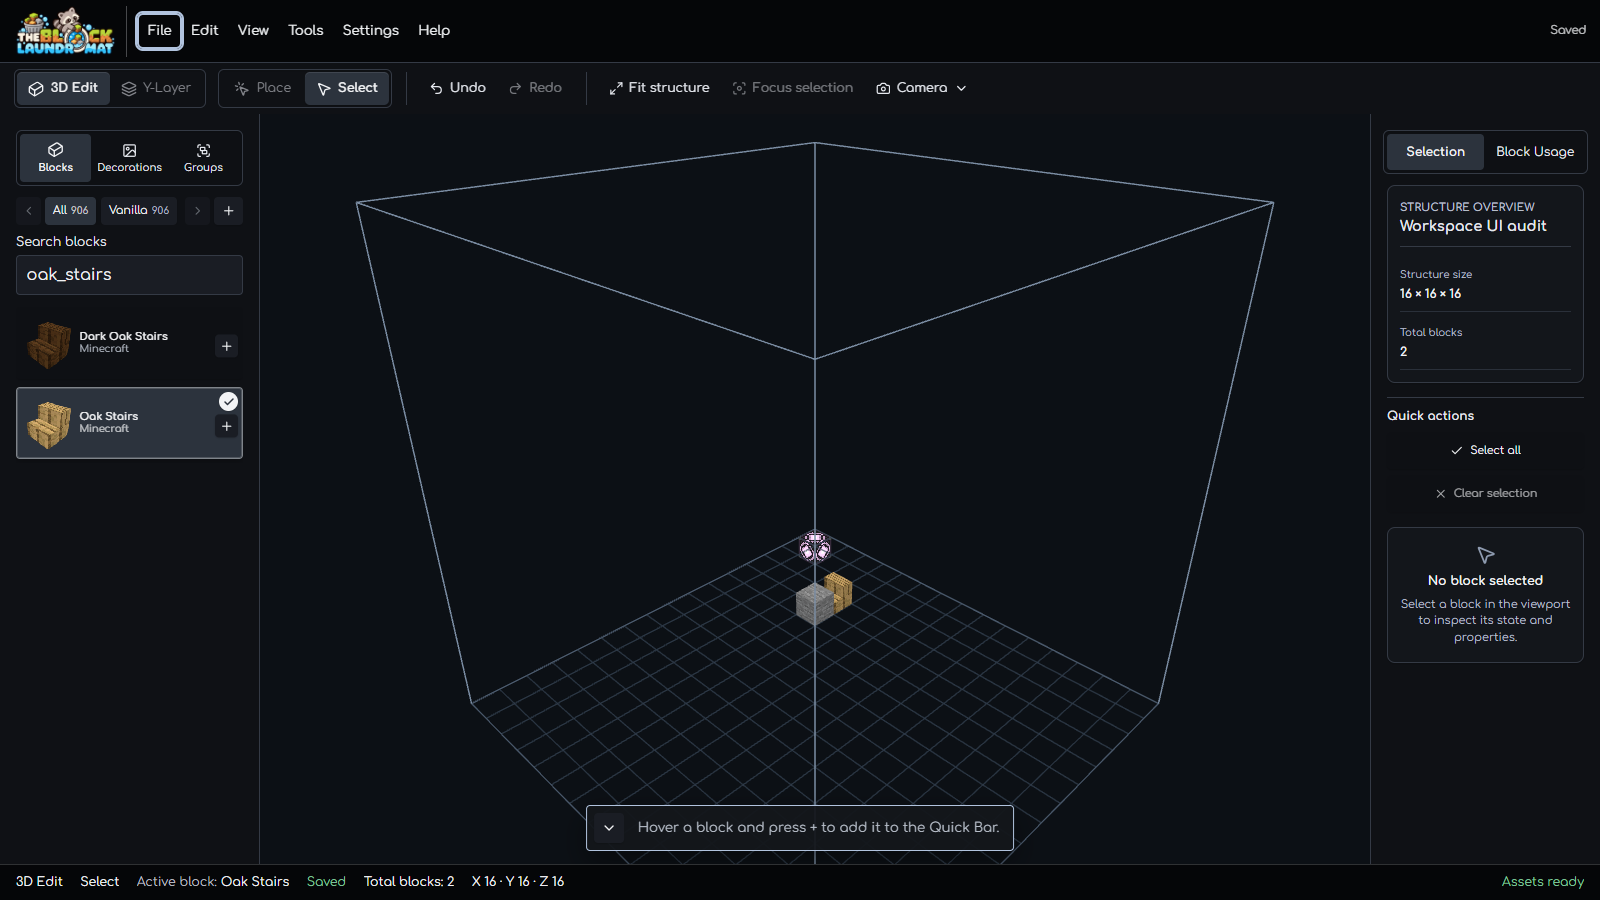
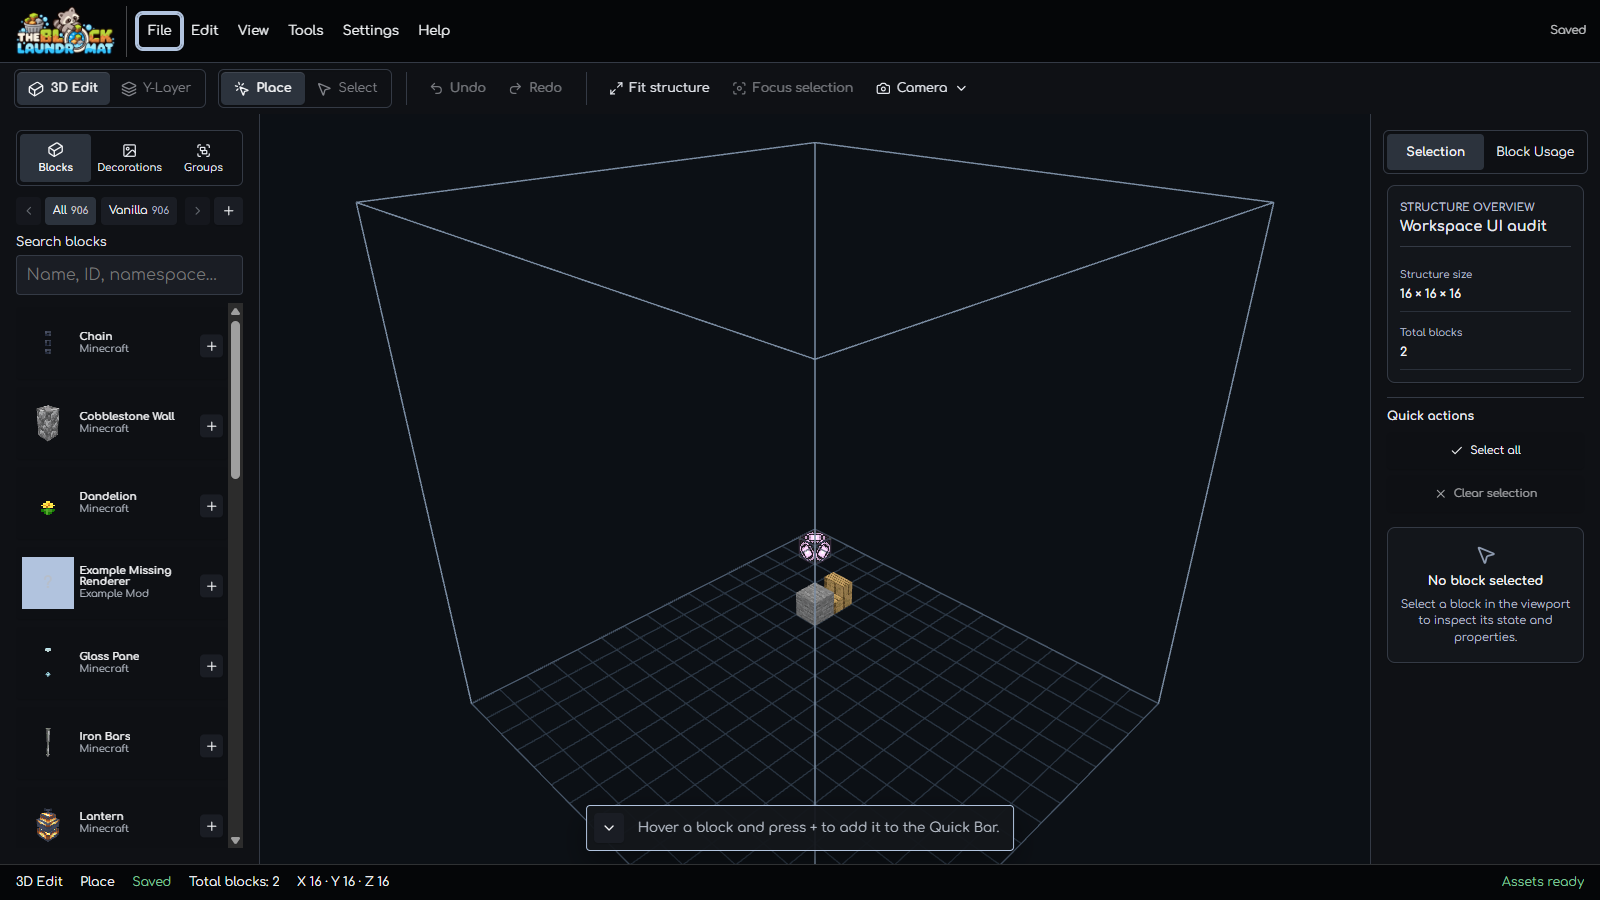
Improve Structure JSON dialog keyboard navigation

diff --git a/Frontend/src/app/features/editor/structure-json/import/structure-json-import-dialog.component.spec.ts b/Frontend/src/app/features/editor/structure-json/import/structure-json-import-dialog.component.spec.ts
@@ -72,6 +72,69 @@ function importWorkspace(
 }
 
 describe('StructureJsonImportDialogComponent', () => {
+  it('supports arrow, Home, and End navigation in the outer tablist', async () => {
+    await TestBed.configureTestingModule({
+      imports: [StructureJsonImportDialogComponent],
+      providers: [
+        ...catalogProviders,
+        { provide: I18nService, useValue: { t: (key: string) => key } },
+        {
+          provide: BlockLibraryService,
+          useValue: { get: () => undefined, allPlaceableItems: () => [] },
+        },
+        {
+          provide: ExternalAiPromptContextService,
+          useValue: {
+            snapshot: () => ({
+              minecraftVersion: '1.21.1',
+              vanillaSource: 'test',
+              projectContext,
+              mods: [],
+            }),
+          },
+        },
+      ],
+    }).compileComponents();
+    const fixture = TestBed.createComponent(StructureJsonImportDialogComponent);
+    fixture.componentRef.setInput('project', project);
+    // jsdom reports zero geometry for every element, so let CDK see the initial tab as visible.
+    const clientRects = vi
+      .spyOn(HTMLElement.prototype, 'getClientRects')
+      .mockReturnValue([{}] as unknown as DOMRectList);
+    fixture.detectChanges();
+    await fixture.whenStable();
+    fixture.detectChanges();
+    clientRects.mockRestore();
+    const tabs = Array.from(
+      (fixture.nativeElement as HTMLElement).querySelectorAll<HTMLButtonElement>(
+        '.structure-json-tabs [role="tab"]',
+      ),
+    );
+    const press = (index: number, key: string): KeyboardEvent => {
+      const event = new KeyboardEvent('keydown', { key, bubbles: true, cancelable: true });
+      tabs[index].dispatchEvent(event);
+      fixture.detectChanges();
+      expect(event.defaultPrevented).toBe(true);
+      return event;
+    };
+
+    expect(tabs.map((tab) => tab.tabIndex)).toEqual([0, -1]);
+    expect(document.activeElement).toBe(tabs[0]);
+    press(0, 'ArrowRight');
+    expect(document.activeElement).toBe(tabs[1]);
+    expect(tabs.map((tab) => tab.getAttribute('aria-selected'))).toEqual(['false', 'true']);
+    expect(tabs.map((tab) => tab.tabIndex)).toEqual([-1, 0]);
+
+    press(1, 'ArrowRight');
+    expect(document.activeElement).toBe(tabs[0]);
+    press(0, 'ArrowLeft');
+    expect(document.activeElement).toBe(tabs[1]);
+    press(1, 'Home');
+    expect(document.activeElement).toBe(tabs[0]);
+    press(0, 'End');
+    expect(document.activeElement).toBe(tabs[1]);
+  });
+
   it('keeps narrow import content and the JSON editor independently scrollable', () => {
     const workspaceStyles = String(
       readFileSync(

diff --git a/Frontend/src/app/features/editor/structure-json/import/structure-json-import-dialog.component.ts b/Frontend/src/app/features/editor/structure-json/import/structure-json-import-dialog.component.ts
@@ -73,6 +73,28 @@ export class StructureJsonImportDialogComponent {
   protected setTab(tab: ImportDialogTab): void {
     this.activeTab.set(tab);
   }
+
+  protected onTabKeydown(event: KeyboardEvent, current: ImportDialogTab): void {
+    const currentIndex = this.tabs.indexOf(current);
+    const nextTab =
+      event.key === 'ArrowRight'
+        ? this.tabs[(currentIndex + 1) % this.tabs.length]
+        : event.key === 'ArrowLeft'
+          ? this.tabs[(currentIndex + this.tabs.length - 1) % this.tabs.length]
+          : event.key === 'Home'
+            ? this.tabs[0]
+            : event.key === 'End'
+              ? this.tabs[this.tabs.length - 1]
+              : undefined;
+    if (!nextTab) return;
+
+    event.preventDefault();
+    this.setTab(nextTab);
+    (event.currentTarget as HTMLButtonElement).parentElement
+      ?.querySelector<HTMLButtonElement>(`#structure-json-tab-${nextTab}`)
+      ?.focus();
+  }
+
   protected applyImport(): void {
     void this.importWorkspace()?.applyImport();
   }

diff --git a/Frontend/src/app/features/editor/structure-json/import/structure-json-import-dialog.component.html b/Frontend/src/app/features/editor/structure-json/import/structure-json-import-dialog.component.html
@@ -43,10 +43,13 @@
           type="button"
           role="tab"
           [id]="'structure-json-tab-' + item"
+          [attr.cdkFocusInitial]="item === 'import' ? '' : null"
           [attr.aria-controls]="'structure-json-panel-' + item"
           [attr.aria-selected]="activeTab() === item"
+          [attr.tabindex]="activeTab() === item ? 0 : -1"
           [class.active]="activeTab() === item"
           (click)="setTab(item)"
+          (keydown)="onTabKeydown($event, item)"
         >
           {{
             item === 'import'

diff --git a/Docs/design/workspace-renovation/evidence/current-run-20261017/README.md b/Docs/design/workspace-renovation/evidence/current-run-20261017/README.md
@@ -108,17 +108,19 @@ was not part of this browser check.
 
 ## Structure JSON browser round trip
 
-| Step                         | Screenshot                                                                                                                                                                           |
-| ---------------------------- | ------------------------------------------------------------------------------------------------------------------------------------------------------------------------------------ |
-| Export                       | [workspace-structure-json-export-two-blocks-dark-en-1600x900-20261017.png](workspace-structure-json-export-two-blocks-dark-en-1600x900-20261017.png)                                 |
-| Import validation, desktop   | [workspace-structure-json-import-validated-two-blocks-dark-en-1600x900-20261017.png](workspace-structure-json-import-validated-two-blocks-dark-en-1600x900-20261017.png)             |
-| Import validation, 390 x 520 | [workspace-structure-json-import-validated-two-blocks-dark-en-390x520-20261017.png](workspace-structure-json-import-validated-two-blocks-dark-en-390x520-20261017.png)               |
-| Replace confirmation         | [workspace-structure-json-import-confirm-replace-two-blocks-dark-en-1600x900-20261017.png](workspace-structure-json-import-confirm-replace-two-blocks-dark-en-1600x900-20261017.png) |
-| Inspector after save         | [workspace-structure-json-roundtrip-inspector-two-blocks-dark-en-1600x900-20261017.png](workspace-structure-json-roundtrip-inspector-two-blocks-dark-en-1600x900-20261017.png)       |
-| Invalid JSON syntax          | [workspace-structure-json-invalid-syntax-dark-en-1600x900-20261017.png](workspace-structure-json-invalid-syntax-dark-en-1600x900-20261017.png)                                       |
-| Simulated file-read failure  | [workspace-structure-json-file-read-error-dark-en-1600x900-20261017.png](workspace-structure-json-file-read-error-dark-en-1600x900-20261017.png)                                     |
-| Valid source after error     | [workspace-structure-json-recovered-valid-source-dark-en-1600x900-20261017.png](workspace-structure-json-recovered-valid-source-dark-en-1600x900-20261017.png)                       |
-| Escape returns focus to File | [workspace-structure-json-import-focus-return-dark-en-1600x900-20261017.png](workspace-structure-json-import-focus-return-dark-en-1600x900-20261017.png)                             |
+| Step                              | Screenshot                                                                                                                                                                           |
+| --------------------------------- | ------------------------------------------------------------------------------------------------------------------------------------------------------------------------------------ |
+| Export                            | [workspace-structure-json-export-two-blocks-dark-en-1600x900-20261017.png](workspace-structure-json-export-two-blocks-dark-en-1600x900-20261017.png)                                 |
+| Import validation, desktop        | [workspace-structure-json-import-validated-two-blocks-dark-en-1600x900-20261017.png](workspace-structure-json-import-validated-two-blocks-dark-en-1600x900-20261017.png)             |
+| Import validation, 390 x 520      | [workspace-structure-json-import-validated-two-blocks-dark-en-390x520-20261017.png](workspace-structure-json-import-validated-two-blocks-dark-en-390x520-20261017.png)               |
+| Replace confirmation              | [workspace-structure-json-import-confirm-replace-two-blocks-dark-en-1600x900-20261017.png](workspace-structure-json-import-confirm-replace-two-blocks-dark-en-1600x900-20261017.png) |
+| Inspector after save              | [workspace-structure-json-roundtrip-inspector-two-blocks-dark-en-1600x900-20261017.png](workspace-structure-json-roundtrip-inspector-two-blocks-dark-en-1600x900-20261017.png)       |
+| Invalid JSON syntax               | [workspace-structure-json-invalid-syntax-dark-en-1600x900-20261017.png](workspace-structure-json-invalid-syntax-dark-en-1600x900-20261017.png)                                       |
+| Simulated file-read failure       | [workspace-structure-json-file-read-error-dark-en-1600x900-20261017.png](workspace-structure-json-file-read-error-dark-en-1600x900-20261017.png)                                     |
+| Valid source after error          | [workspace-structure-json-recovered-valid-source-dark-en-1600x900-20261017.png](workspace-structure-json-recovered-valid-source-dark-en-1600x900-20261017.png)                       |
+| Escape returns focus to File      | [workspace-structure-json-import-focus-return-dark-en-1600x900-20261017.png](workspace-structure-json-import-focus-return-dark-en-1600x900-20261017.png)                             |
+| Initial focus on Import JSON      | [workspace-structure-json-import-initial-focus-dark-en-1600x900-20261017.png](workspace-structure-json-import-initial-focus-dark-en-1600x900-20261017.png)                           |
+| ArrowRight selects Create with AI | [workspace-structure-json-ai-tab-keyboard-dark-en-1600x900-20261017.png](workspace-structure-json-ai-tab-keyboard-dark-en-1600x900-20261017.png)                                     |
 
 The app exported a 466-byte Structure JSON file from the same isolated project,
 then imported that downloaded file through the visible file picker. Validation
@@ -143,6 +145,12 @@ saved two-block project. Loading a valid file afterward cleared the alert and
 restored the validation preview. The browser API override used for this
 simulation was restored immediately after the read-error check.
 
+Opening the dialog puts focus on the selected Import JSON tab rather than the
+Cancel button. The outer tablist uses roving focus: ArrowRight switches to
+Create with AI, ArrowLeft returns to Import JSON, and the selected tab is the
+only tab stop. Unit coverage also verifies wraparound plus Home/End. Escape
+from the tablist closes the dialog and restores focus to File.
+
 ## Changes verified in this pass
 
 - Resizing the viewport 1600→390→1600 kept saved sidebar preferences at
@@ -157,6 +165,8 @@ simulation was restored immediately after the read-error check.
 - Structure JSON parse and file-read failures appear as alerts and prevent
   Apply Import; a valid-file retry restores the preview, and Escape returns
   focus to File.
+- Import JSON is the dialog's initial focus; ArrowLeft/Right and Home/End
+  navigate the outer tabs while preserving a visible focus ring.
 - The narrow Workspace drawer and the 780×437 shell fit without document-level
   horizontal overflow.
 
@@ -165,9 +175,9 @@ Before the file-read error fix, the Workspace suite passed with
 along with production build, app/spec/worker TypeScript checks, tool tests (2/2),
 encoding, Prettier, and `git diff --check`. The default worker-isolated full
 suite run failed with Vitest worker timeouts and IPC errors; the successful run
-disabled test isolation. The follow-up file-read error change passed its
-focused workflow spec (1 file, 6 tests), production build, encoding check,
-Prettier, `git diff --check`, and a check that all 44 linked PNGs exist.
+disabled test isolation. The follow-up file-read and tab-navigation changes
+passed two focused specs (19 tests total), production build, encoding check,
+Prettier, `git diff --check`, and a check that all 46 linked PNGs exist.
 Workspace acceptance remains in progress. Remaining checks cover trusted
 mod/JAR fixtures, External AI, diagnostics, all locales and fonts, focus return
 for other dialogs, and reduced-motion behavior. The non-empty

diff --git a/Docs/design/workspace-renovation/WORKSPACE-UI-ACCEPTANCE-INVENTORY.md b/Docs/design/workspace-renovation/WORKSPACE-UI-ACCEPTANCE-INVENTORY.md
@@ -26,7 +26,7 @@ browser pass and the earlier captures catalogued in
 | Block Usage                                                       | User-approved design retained; populated current Dark state captured                           | 1-block and 2-type states show totals, missing count, exact IDs, counts, and shares                                         | Tab and Enter activated the first row and toggled its highlight; virtualized keyboard traversal across more rows remains open | Low                        | [Current populated captures](evidence/current-run-20261017/README.md) plus prior four-theme populated captures in [README](README.md) |
 | Quick Bar and Status Bar                                          | Good in existing and current captures                                                          | Add/remove of Stone verified; empty hint and narrow wrapping documented earlier                                             | Recheck collapse controls and status announcements                                                                            | Low                        | Current populated Quick Bar capture; prior empty-state captures in [README](README.md)                                                |
 | Settings: General, Appearance, Controls, Shortcuts, Accessibility | All five sections and Workspace Background captured in Dark                                    | Desktop and 640×520/390×520 dialog layout captured; initial focus starts at General                                         | Tab to Accessibility and Enter select it; the narrow nav scrolls the selected button into view without document overflow      | Medium                     | Current captures and focus/responsive notes in [evidence index](evidence/current-run-20261017/README.md)                              |
-| Structure JSON import/export                                      | Round trip, invalid syntax, read error, and recovery captured in Dark                          | Two-block round trip and valid retry verified; footer remains visible at 390 x 520; invalid input cannot be applied         | Errors use role=alert; Escape visibly restores File focus; continue keyboard traversal in tabs/editor                         | Medium                     | [Current round-trip evidence](evidence/current-run-20261017/README.md); NBT import is not exposed by the File menu                    |
+| Structure JSON import/export                                      | Round trip, error recovery, initial focus, and keyboard tab switching captured in Dark         | Two-block round trip and valid retry verified; footer remains visible at 390 x 520; invalid input cannot be applied         | Errors use role=alert; Arrow/Home/End navigate tabs; Escape visibly restores File focus; check nested AI tabs                 | Medium                     | [Current round-trip evidence](evidence/current-run-20261017/README.md); NBT import is not exposed by the File menu                    |
 | Create with AI / External AI                                      | Existing panels and five tabs recorded                                                         | External AI tab navigation and copy success were previously exercised                                                       | Recheck reduced motion and focus after final polish                                                                           | Medium                     | Earlier captures and interaction notes in [README](README.md)                                                                         |
 | NBT / Datapack export                                             | Both download modes captured in Dark; datapack also captured at 390 x 520                      | Two-block ZIP and standalone NBT downloaded and decoded; fixed footer remains visible on mobile                             | Close returns focus to File; recheck validation announcements; Minecraft load remains pending                                 | Medium                     | [Current decoded exports](evidence/current-run-20261017/README.md); golden fixture is codec-tested                                    |
 | Asset Manager and Mod Import                                      | Existing asset states and dialog layout recorded                                               | Repeat loading, missing-resource, cancel, and failure recovery                                                              | Recheck keyboard and announcement behavior                                                                                    | High                       | Earlier captures in [README](README.md); a trusted mod JAR fixture is still missing                                                   |

diff --git a/Docs/structure-json.md b/Docs/structure-json.md
@@ -56,3 +56,7 @@ If the browser cannot read a selected JSON file, the import workspace shows a
 localized alert, keeps the existing draft, and clears the error when another
 file loads, the draft is edited, or the current draft is validated. No project
 changes occur until the user applies a validated import.
+
+The dialog opens with its selected Import JSON tab focused. The outer tablist
+supports ArrowLeft/ArrowRight with wraparound and Home/End; only the selected
+tab participates in the regular Tab sequence.
